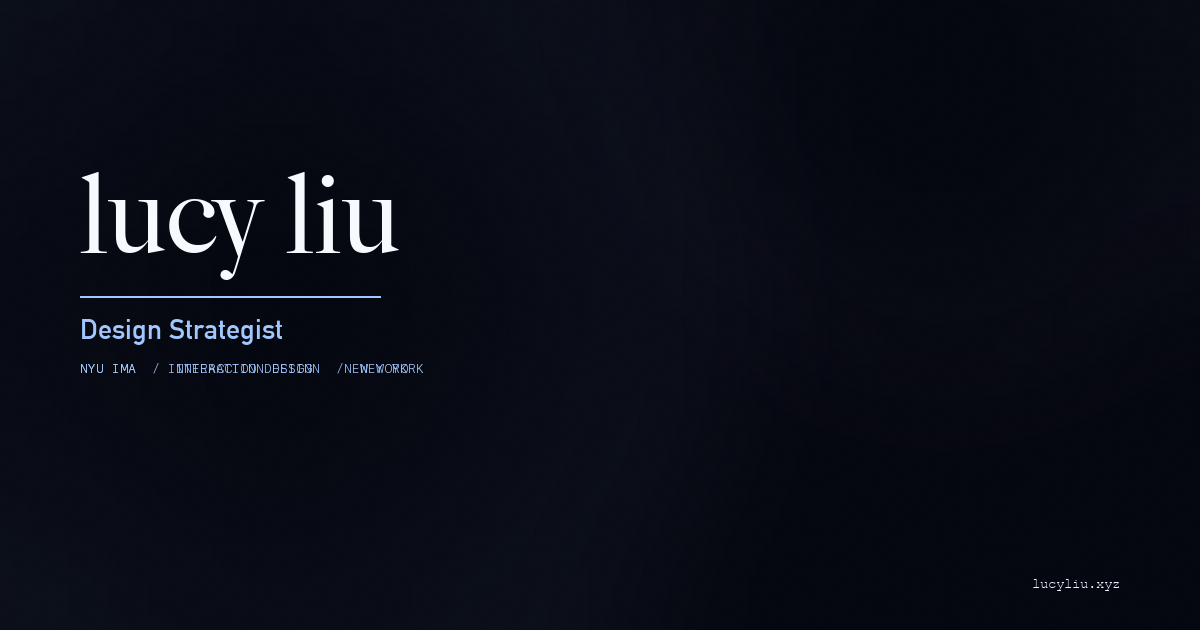
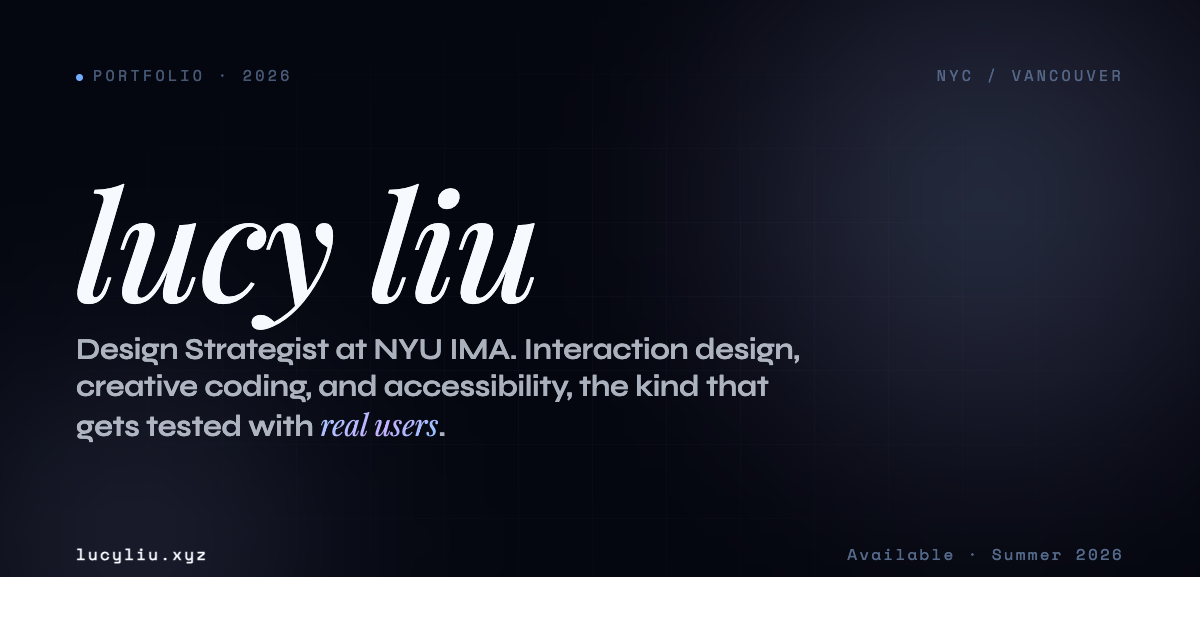
tweak: redesign OG share cover to match portfolio; tone down work LetterGlitch
OG: replace the plain share card (assets/og-preview.png) with a portfolio-matching
1200x630 cover — void + aura glow + faint grid, 'lucy liu' Playfair wordmark, tagline
with the aura-gradient accent, editorial eyebrow/footer.
LetterGlitch: opacity 0.5->0.2, darker/dimmer colors, slower (55->120ms), center vignette
so 'All work' stays clear.

diff --git a/work.html b/work.html
@@ -21,11 +21,11 @@
 *, *::before, *::after { box-sizing: border-box; margin: 0; padding: 0; }
 .wk-glitch {
   position: fixed; inset: 0; z-index: 0; pointer-events: none;
-  opacity: 0.5;
+  opacity: 0.2;
 }
 .wk-glitch canvas { display: block; width: 100%; height: 100%; }
 .wk-nav, #main { position: relative; z-index: 1; }
-@media (max-width: 760px) { .wk-glitch { opacity: 0.35; } }
+@media (max-width: 760px) { .wk-glitch { opacity: 0.14; } }
 body {
   background: var(--void);
   color: var(--fg1);
@@ -322,7 +322,7 @@ a { color: inherit; text-decoration: none; }
 <body>
 
 <!-- LetterGlitch backdrop (React Bits, vanilla) — scrambling letter field behind the page -->
-<div class="wk-glitch" data-letter-glitch data-colors="#141930,#1E2640,#4A8FEF,#C4B0FF" data-speed="55" aria-hidden="true"></div>
+<div class="wk-glitch" data-letter-glitch data-colors="#0E1322,#141930,#1E2640,#2A4A7F" data-speed="120" data-center-vignette="true" aria-hidden="true"></div>
 
 <a href="#main" class="skip-link visually-hidden">Skip to main content</a>
 
